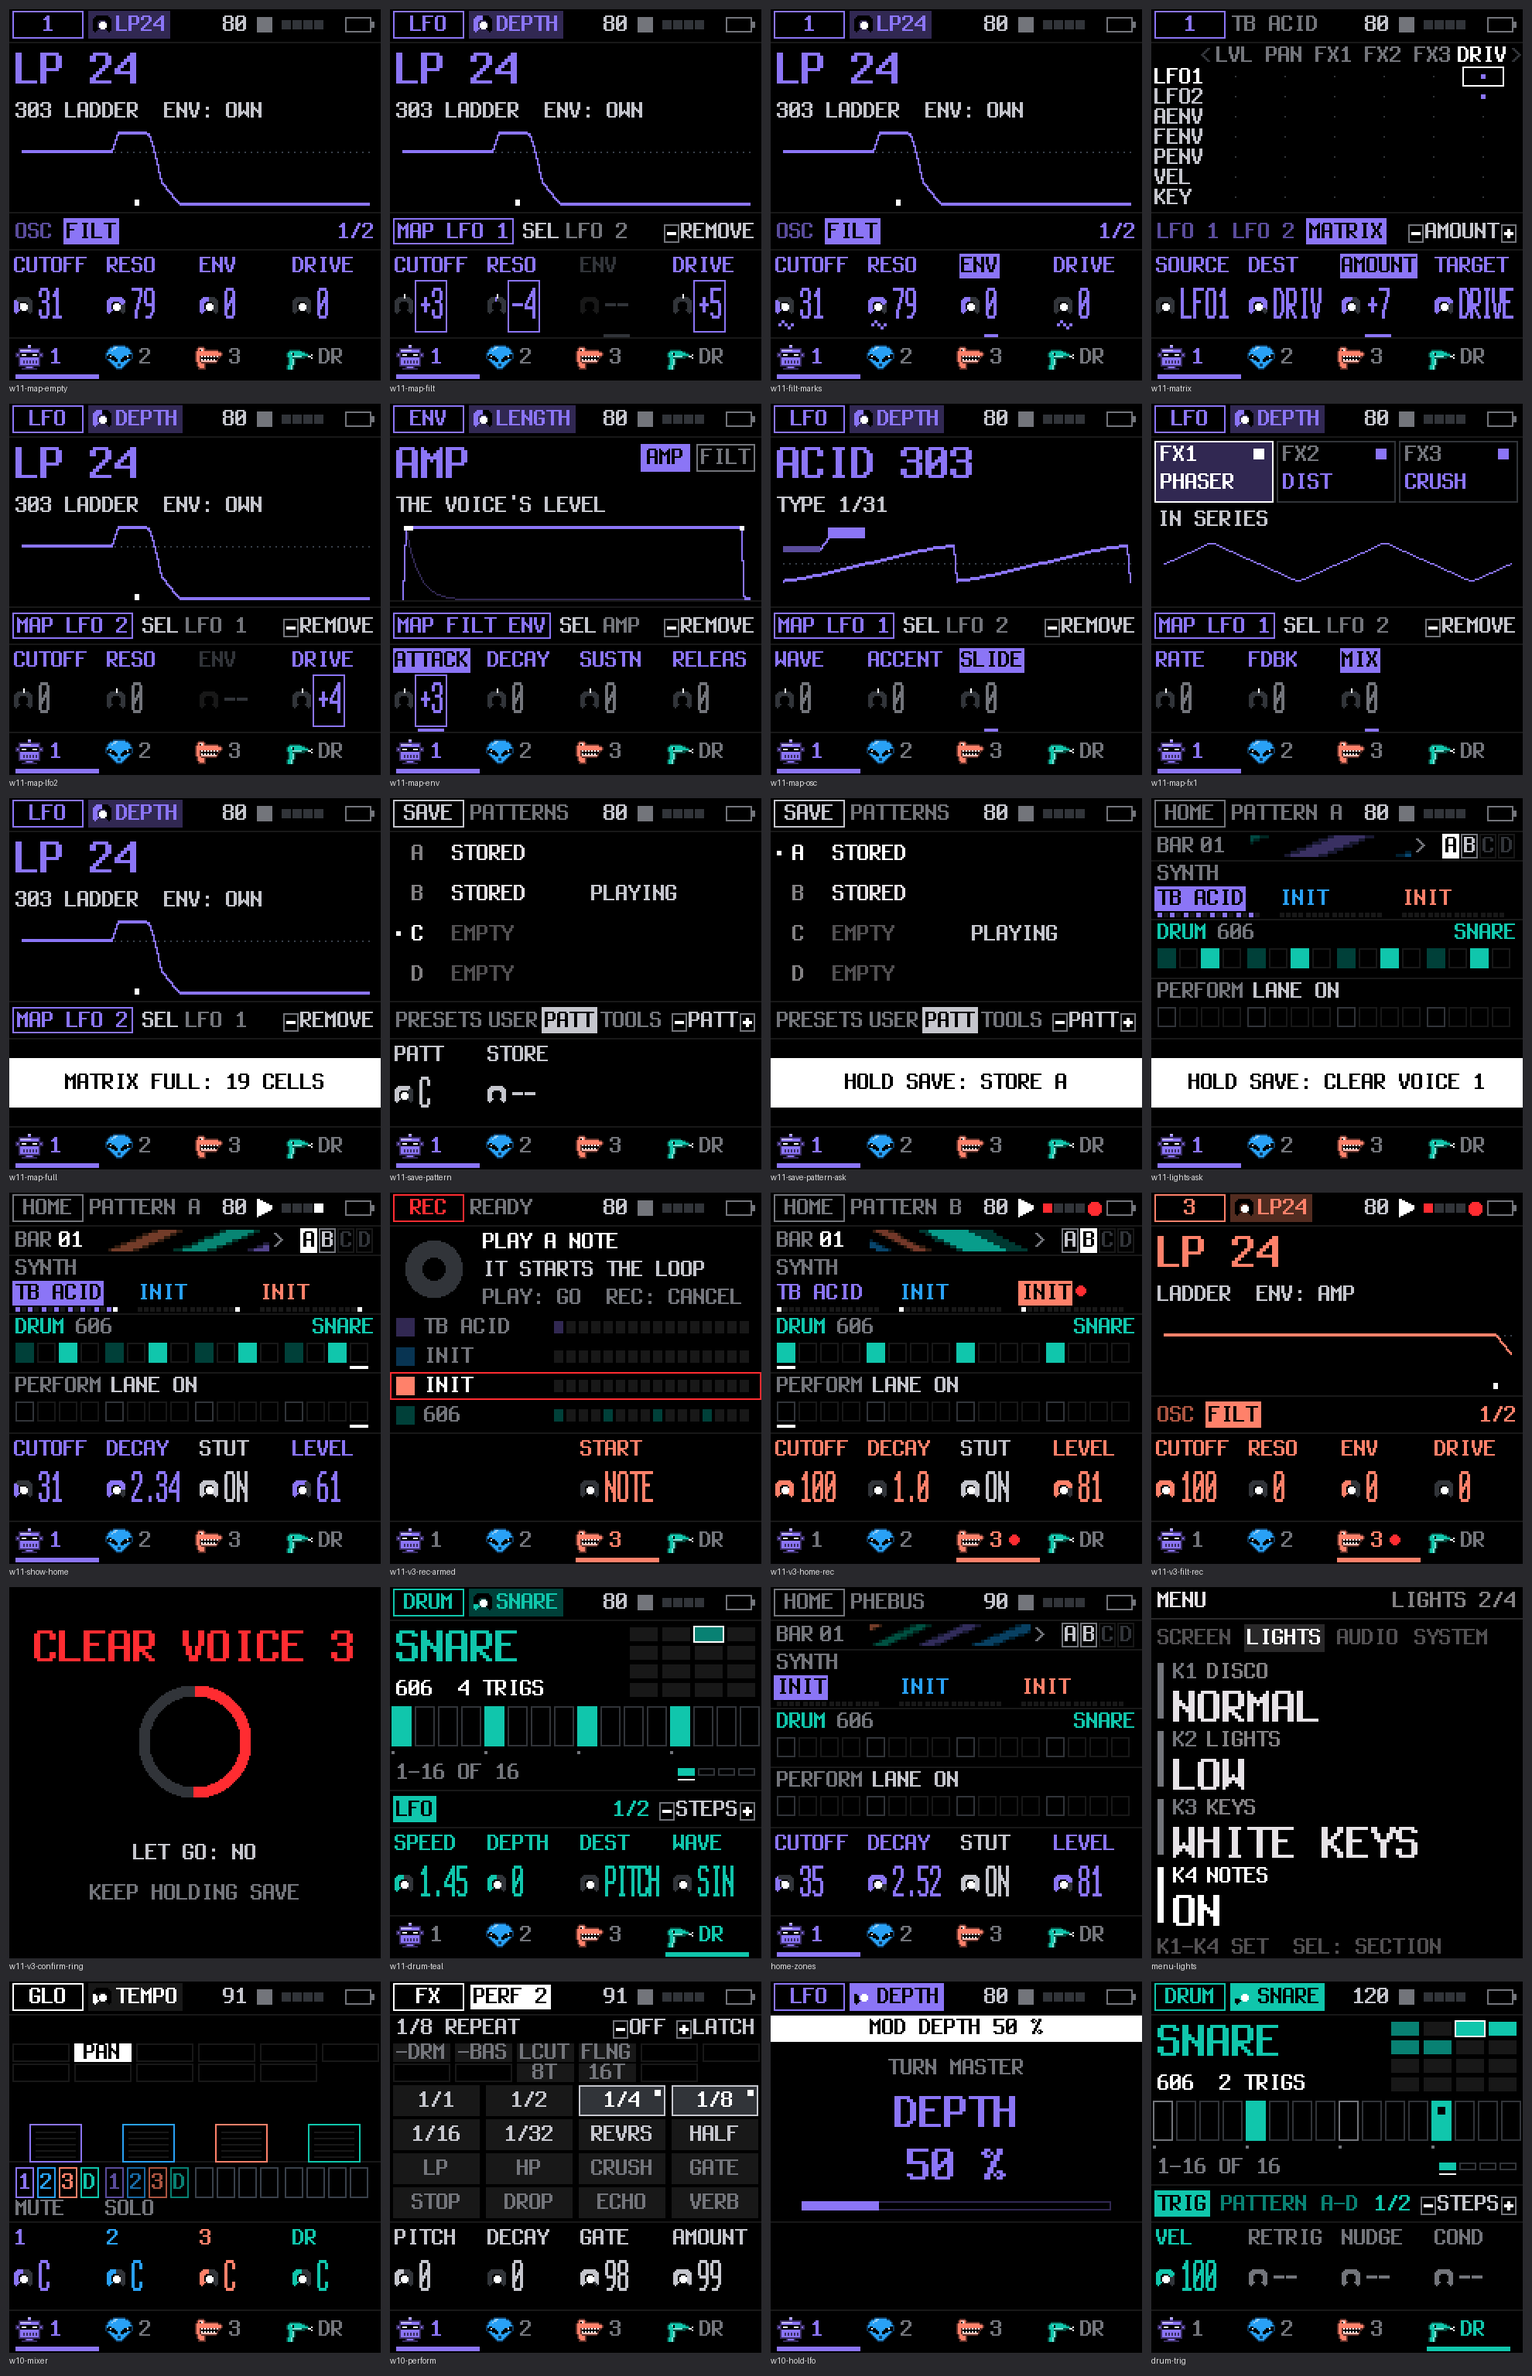
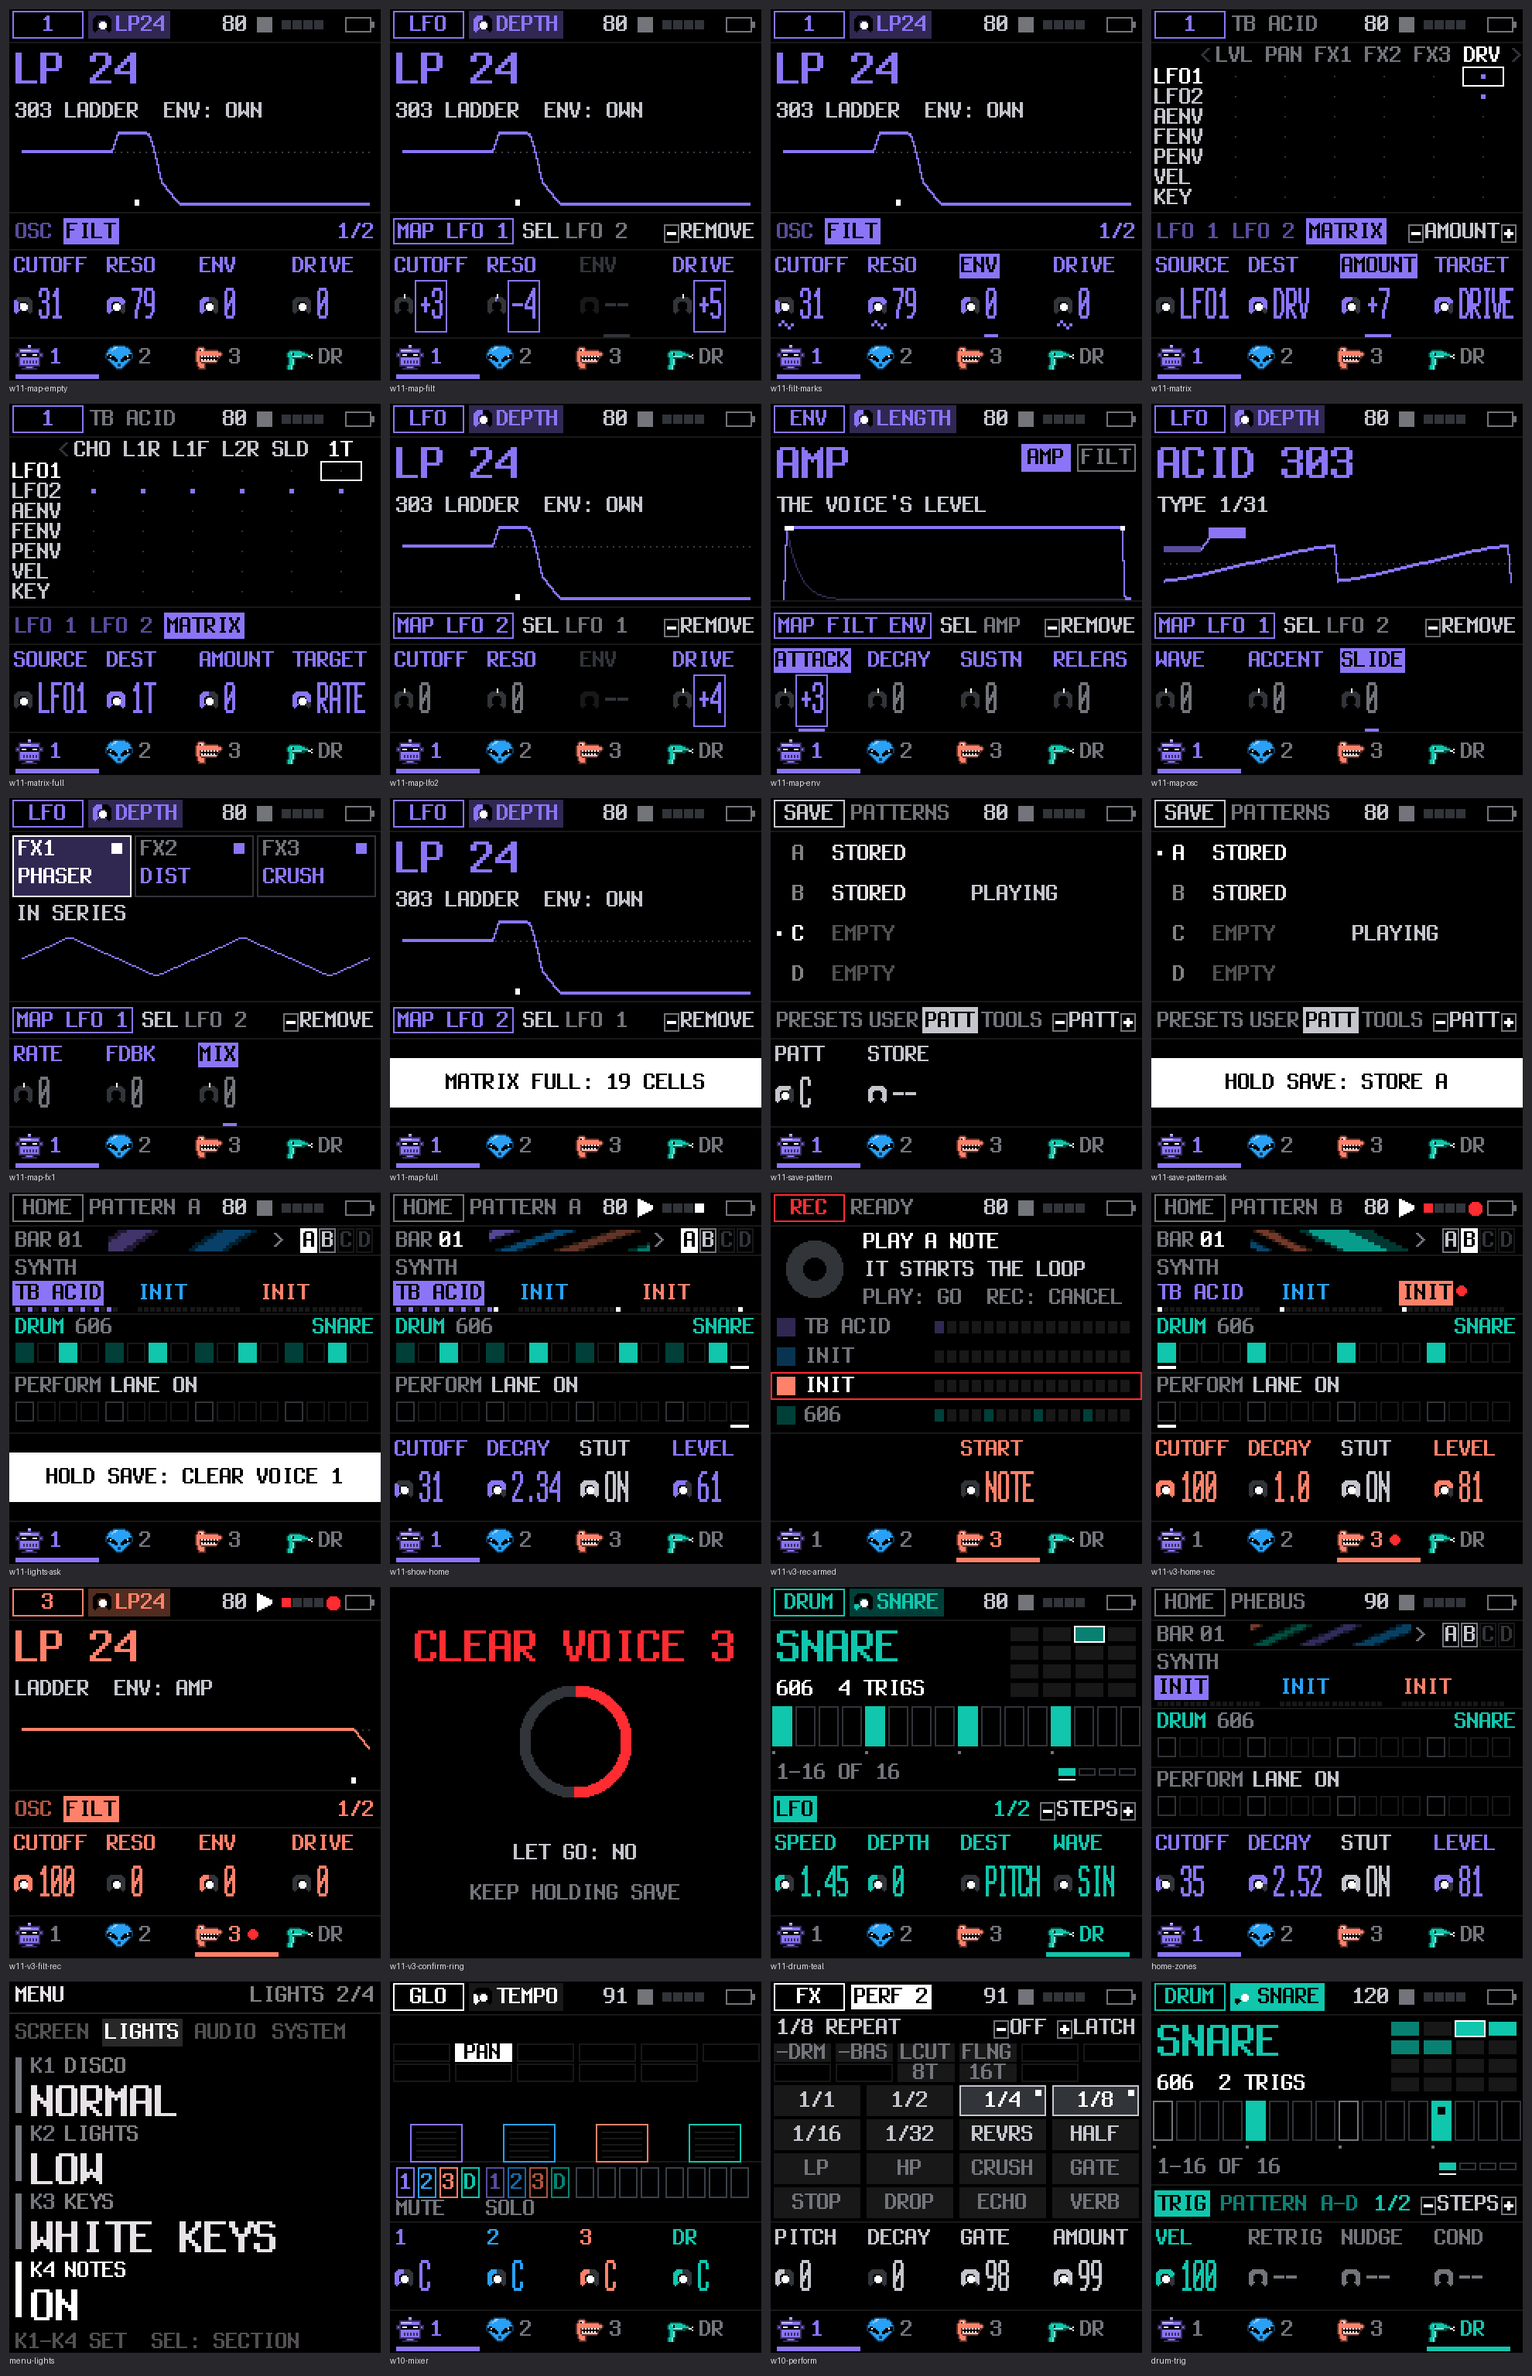
MATRIX heads: three-letter names, one a parameter (L1R L2R ATK FAT DRV 1T ...), so 19 columns read side by side; tests: the MAP view and marks on every voice keep the colour rule and their columns, the 19-column grid; review sheet regenerated
Claude-Session: https://claude.ai/code/session_01XcKDzzW9aw58RdBnowjoVw

diff --git a/tests/ui_pages_test.c b/tests/ui_pages_test.c
@@ -4407,6 +4407,50 @@ int main(int argc, char **argv)
         go_home(); disco = DISCO_SHOW; frames(30); lights_dump("SHOW, HOME playing"); frames(7); lights_dump("SHOW, HOME playing (a moment later)");
         disco = DISCO_NORMAL; transport_req = 2; frames(4); go_home(); frames(2);
     }
+    {   /* ---- wave 11: the new views keep in their columns and to the colour rule */
+        uint32_t over0 = dial_over, bad = 0, v, i;
+        static const char *const PG[] = {"FILT", "ENV", "FX 1", "LFO", "OSC"};
+        static const uint8_t FA[] = {FAM_FLT, FAM_ENV, FAM_FX, FAM_MOD, FAM_OSC};
+        for (v = 0; v < NPART; v++) {
+            track_select(v); go_home(); frames(2);
+            fm1_irq_off(); mx_clear_sound(v); mx_map_set(v, MS_LFO2, P_FDRV, -64); mx_map_set(v, MS_LFO2, P_FRES, 63); fm1_irq_on();
+            for (i = 0; i < NELEM(FA); i++) {
+                uint32_t o;
+                if (!chain_goto(FA[i], PG[i])) { bad++; continue; }
+                map_lfo2 = 1;
+                press(B_LFO); frames(12); ui.force = 1; frame();
+                for (o = 0; o < NPART + 1u; o++)        /* (no other voice's colour, no red) */
+                    if (o != v && (o < NPART ? 1 : 0))
+                        bad += px_count(0, 0, 240, OP_BAR_Y, TE_COL[o]) != 0u;
+                bad += px_count(0, 0, 240, OP_BAR_Y, TE_RED) != 0u;
+                release(B_LFO); frames(4);
+                ui.force = 1; frame();
+                for (o = 0; o < NPART; o++)             /* (the marks: the voice's own colour only) */
+                    if (o != v)
+                        bad += px_count(0, 0, 240, OP_BAR_Y, TE_COL[o]) != 0u;
+            }
+            fm1_irq_off(); mx_clear_sound(v); fm1_irq_on();
+        }
+        check(!bad && dial_over == over0, "w11: MAP view and the marks on every synth voice: in their columns, no other voice's colour, no red");
+        track_select(0); go_home(); frames(2);
+        {   /* the MATRIX's heads: every column's name in its 32 px, with 19 columns in use */
+            uint8_t cols[MD_N];
+            uint32_t n, j, wide = 0;
+            static const uint8_t IDS[] = {P_ATK, P_DEC, P_SUS, P_REL, P_FATK, P_FDEC, P_FSUS, P_FREL, P_FDRV, P_GLIDE, P_DETUNE,
+                                          P_DLY, P_REV, P_CHOR, P_LRATE, P_LFADE, P_L2RATE, P_SLDEPTH, P_X1TIME};
+            char nm[8];
+            fm1_irq_off(); mx_clear_sound(0);
+            for (j = 0; j < NELEM(IDS); j++) mx_map_set(0, MS_LFO2, IDS[j], 9);
+            fm1_irq_on();
+            n = mx_vis(0, cols);
+            for (j = 0; j < n; j++) { mx_col_name(0, cols[j], nm); wide += text_w(&FONT_S, nm) > 28; }
+            chain_goto(FAM_MOD, "MATRIX"); mx_col = cols[n - 1u]; frames(2); ui.force = 1; frame(); ppm("w11-matrix-full");
+            check(n == MD_NFIX + 19u && !wide && px_count(0, 0, 240, OP_BAR_Y, TE_COL[1]) + px_count(0, 0, 240, OP_BAR_Y, TE_COL[2]) == 0u,
+                  "w11: MATRIX with 19 parameter columns: each name fits its column, the view scrolls to the last, voice 1's colours only");
+            fm1_irq_off(); mx_clear_sound(0); fm1_irq_on();
+        }
+        go_home(); frames(2);
+    }
     {   /* ---- wave 11 (D1): storing a pattern has a home under SAVE: SAVE > PATTERN (the hold stays its shortcut) */
         uint32_t s0, j;
         song.sel = 0; go_home(); frames(4);

diff --git a/firmware/src/params.c b/firmware/src/params.c
@@ -43,7 +43,7 @@ static const char *const N_XBIG[] = {"OFF", "CHORUS", "PHASER", "FLANGER", "REVE
 _Static_assert(sizeof N_XTYPE / sizeof N_XTYPE[0] == XT_N && sizeof N_XBIG / sizeof N_XBIG[0] == XT_N, "a name an FX type");
 /* the mod matrix's rows and columns (core.h MS_*, MD_*): short in the grid, long on the knobs */
 static const char *const N_MSRC[] = {"LFO1", "LFO2", "AENV", "FENV", "PENV", "VEL", "KEY"};
-static const char *const N_MDST[] = {"PIT", "M1", "M2", "M3", "CUT", "RESO", "LVL", "PAN", "FX1", "FX2", "FX3"};
+static const char *const N_MDST[] = {"PIT", "M1", "M2", "M3", "CUT", "RES", "LVL", "PAN", "FX1", "FX2", "FX3"};
 _Static_assert(sizeof N_MSRC / sizeof N_MSRC[0] == MS_N && sizeof N_MDST / sizeof N_MDST[0] == MD_NFIX, "the grid's names");
 static const char *const N_AMODE[] = {"OFF", "UP", "DN", "UPDN", "RND", "ORD"};
 static const char *const N_MOUT[] = {"KEYS", "SEQ"};
@@ -693,16 +693,39 @@ static uint32_t mx_vis_pos(uint32_t ti, uint32_t col)  /* column col's place amo
             return i;
     return n - 1u;
 }
-/* a column's name in the grid's head (4 letters: an assignable one its parameter's, "+" an empty one) */
+/* a column's name in the grid's head: three letters, one name a parameter (wave 11: up to 19 parameter columns side by side, so
+ * the LFOs' RATEs, the two envelopes' stages and the slots' knobs need names of their own); "+" an empty column */
 static void mx_col_name(uint32_t ti, uint32_t col, char *b)
 {
-    uint32_t a = col >= MD_AS1 && col < MD_N ? mxt[ti % NPART].as[col - MD_AS1] : 0u;
-    if (col < MD_NFIX)
+    static const struct { uint8_t id; char n[4]; } SN[] = {
+        {P_ATK, "ATK"}, {P_DEC, "DEC"}, {P_SUS, "SUS"}, {P_REL, "REL"}, {P_FATK, "FAT"}, {P_FDEC, "FDC"}, {P_FSUS, "FSU"},
+        {P_FREL, "FRL"}, {P_FDRV, "DRV"}, {P_GLIDE, "GLD"}, {P_DETUNE, "DTN"}, {P_DLY, "DLY"}, {P_REV, "REV"}, {P_CHOR, "CHO"},
+        {P_LRATE, "L1R"}, {P_LPHASE, "L1P"}, {P_LFADE, "L1F"}, {P_L2RATE, "L2R"}, {P_SLDEPTH, "SLD"}, {P_FCUT, "CUT"},
+        {P_FRES, "RES"}, {P_TUNE, "TUN"}, {P_PAN, "PAN"}, {P_LEVEL, "LVL"}};
+    uint32_t a = col >= MD_AS1 && col < MD_N ? mxt[ti % NPART].as[col - MD_AS1] : 0u, i, id;
+    if (col < MD_NFIX) {
         str_cpy(b, N_MDST[col], 6);
-    else if (!a)
+        return;
+    }
+    if (!a) {
         str_cpy(b, "+", 6);
-    else
-        str_cpy(b, track_desc(&trk[ti % NPART], a - 1u)->label, 5);
+        return;
+    }
+    id = a - 1u;
+    for (i = 0; i < NELEM(SN); i++)
+        if (SN[i].id == id) {
+            str_cpy(b, SN[i].n, 4);
+            return;
+        }
+    if (id >= P_X1TYPE && id < P_X1TYPE + 4u * NXSLOT) {   /* a slot's knob: its number, T I A */
+        b[0] = (char)('1' + (id - P_X1TYPE) / 4u), b[1] = "-TIA"[(id - P_X1TYPE) % 4u], b[2] = 0;
+        return;
+    }
+    if (id >= P_E0 && id <= P_E7) {                     /* the Type's controls: E1 .. E8 */
+        b[0] = 'E', b[1] = (char)('1' + id - P_E0), b[2] = 0;
+        return;
+    }
+    str_cpy(b, track_desc(&trk[ti % NPART], id)->label, 4);
 }
 /* (wave 5) an FX page's slot (0..2) */
 static uint32_t pg_slot(const page_t *pg) { return ((uint32_t)pg->sel - P_X1TYPE) / 4u % NXSLOT; }   /* (wave 9: its TYPE is SELECT's) */
